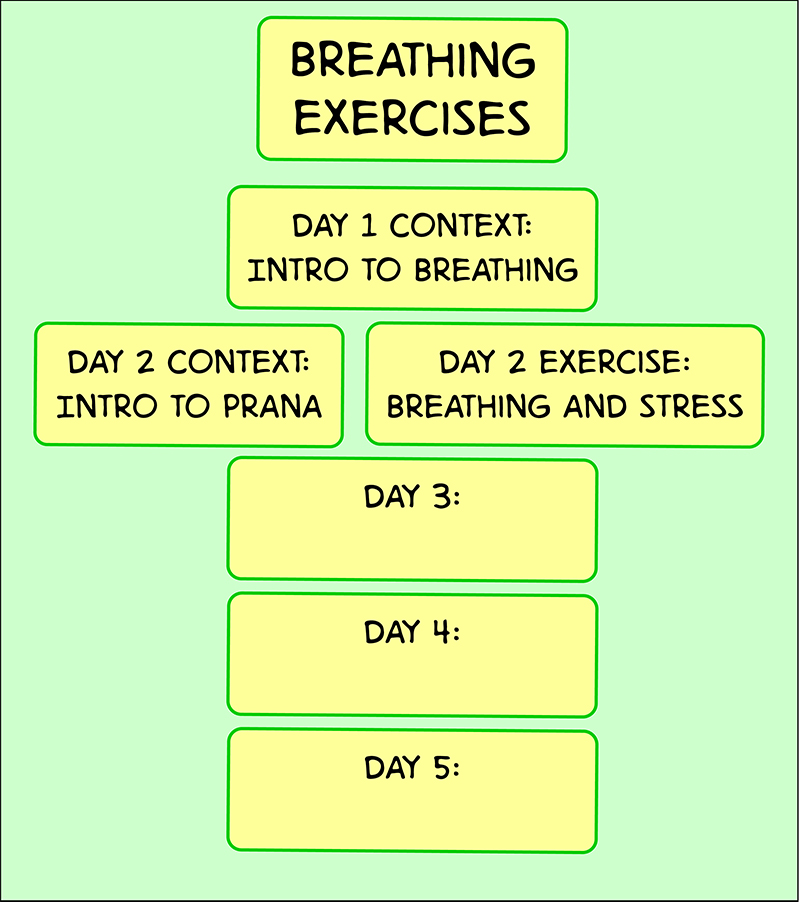
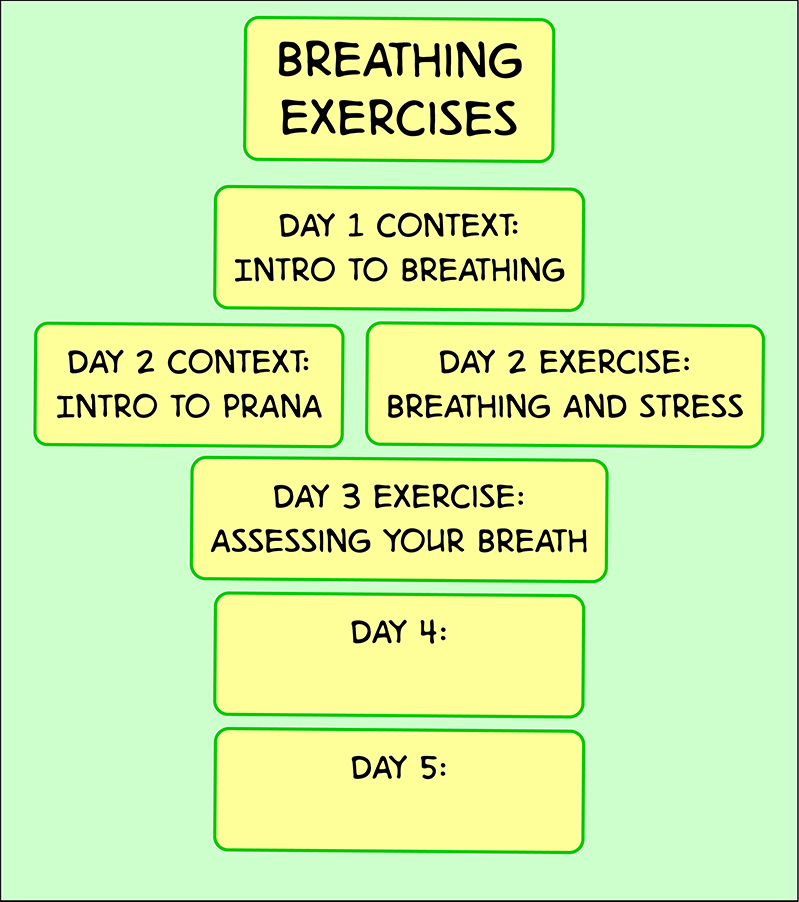
updated daily breathing audio

diff --git a/classroom_tauntaun_breathingExercises_list.html b/classroom_tauntaun_breathingExercises_list.html
@@ -13,10 +13,11 @@
 <center><img src="assets/images/classroom_tauntaun_breathingExercises_list.jpg" usemap="#image-map"></center>
 
 <map name="image-map">
-    <area target="" alt="Back to Breathing Exercises" title="Back to Breathing Exercises" href="https://aicl2020.github.io/classroom_tauntaun_breathingExercises.html" coords="257,16,570,163" shape="rect">
-    <area target="" alt="Day 1 context" title="Day 1 context" class="lightwindow" params="lightwindow_width=600,lightwindow_height=300" href="https://dl.dropbox.com/s/be4ul7jq28r8xre/tauntaun_Introduction_to_breathing_exercises.wav" coords="230,186,598,309" shape="rect">
-    <area target="" alt="Day 2 context" title="Day 2 context" class="lightwindow" params="lightwindow_width=600,lightwindow_height=300" href="https://dl.dropbox.com/s/erlqvgog5yih9ud/tauntaun_Introduction_to_Prana.wav" coords="32,324,342,446" shape="rect">
-    <area target="" alt="Day 2 Exercise" title="Day 2 Exercise" class="lightwindow" params="lightwindow_width=600,lightwindow_height=300" href="https://dl.dropbox.com/s/17hk74wza1jd6ao/tauntaun_Breathing_for_stress_relief.wav" coords="364,324,763,448" shape="rect">
+    <area target="" alt="Back to Breathing Exercises" title="Back to Breathing Exercises" href="https://aicl2020.github.io/classroom_tauntaun_breathingExercises.html" coords="242,15,556,158" shape="rect">
+    <area target="" alt="Day 1 context" title="Day 1 context" class="lightwindow" params="lightwindow_width=600,lightwindow_height=300" href="https://dl.dropbox.com/s/be4ul7jq28r8xre/tauntaun_Introduction_to_breathing_exercises.wav" coords="210,186,586,310" shape="rect">
+    <area target="" alt="Day 2 context" title="Day 2 context" class="lightwindow" params="lightwindow_width=600,lightwindow_height=300" href="https://dl.dropbox.com/s/erlqvgog5yih9ud/tauntaun_Introduction_to_Prana.wav" coords="34,324,345,444" shape="rect">
+    <area target="" alt="Day 2 exercise" title="Day 2 exercise" class="lightwindow" params="lightwindow_width=600,lightwindow_height=300" href="https://dl.dropbox.com/s/17hk74wza1jd6ao/tauntaun_Breathing_for_stress_relief.wav" coords="367,326,762,449" shape="rect">
+    <area target="" alt="Day 3 exercise" title="Day 3 exercise" class="lightwindow" params="lightwindow_width=600,lightwindow_height=300" href="https://dl.dropbox.com/s/5tpskokot9gljwj/tauntaun_Assessing_your_breath.wav" coords="191,461,607,582" shape="rect">
 </map>
 </body>
 

diff --git a/classroom_tauntaun_breathingExercises.html b/classroom_tauntaun_breathingExercises.html
@@ -15,7 +15,7 @@
 <map name="image-map">
     <area target="" alt="Respiratory System" title="Respiratory System" class="lightwindow" params="lightwindow_width=600,lightwindow_height=300" href="https://dl.dropbox.com/s/138se2ofusp3s0c/tauntaun_The_respiratory_system.wav" coords="157,327,347,445" shape="rect">
     <area target="" alt="Prana" title="Prana" class="lightwindow" params="lightwindow_width=600,lightwindow_height=300" href="https://dl.dropbox.com/s/8clte1kt8no7xqt/tauntaun_The_five_forms_of_prana.wav" coords="155,457,343,544" shape="rect">
-    <area target="" alt="Chakras" title="Chakras" href="" coords="158,569,343,661" shape="rect">
+    <area target="" alt="Chakras" title="Chakras" class="lightwindow" params="lightwindow_width=600,lightwindow_height=300" href="https://dl.dropbox.com/s/1f352uhwsl6zjw1/tauntaun_The_seven_major_chakras.wav" coords="158,569,343,661" shape="rect">
     <area target="" alt="Sitting" title="Sitting" href="" coords="158,680,348,778" shape="rect">
     <area target="" alt="Daily Breathing Exercise" title="Daily Breathing Exercise" href="https://aicl2020.github.io/classroom_tauntaun_breathingExercises_list.html" coords="463,304,492,276,535,262,570,266,614,287,632,314,630,337,615,356,587,368,608,379,642,377,592,393,563,387,535,374,508,374,470,354,456,329" shape="poly">
     <area target="" alt="Submit Reflections" title="Submit Reflections" href="https://aicl2020.github.io/classroom_tauntaun_submissions.html" coords="881,521,851,533,823,557,820,586,845,611,887,629,921,637,972,637,1011,628,1055,596,1062,564,1036,533,985,519,962,492,933,456,898,431,840,409,810,396,846,421,872,435,883,456,894,488" shape="poly">
